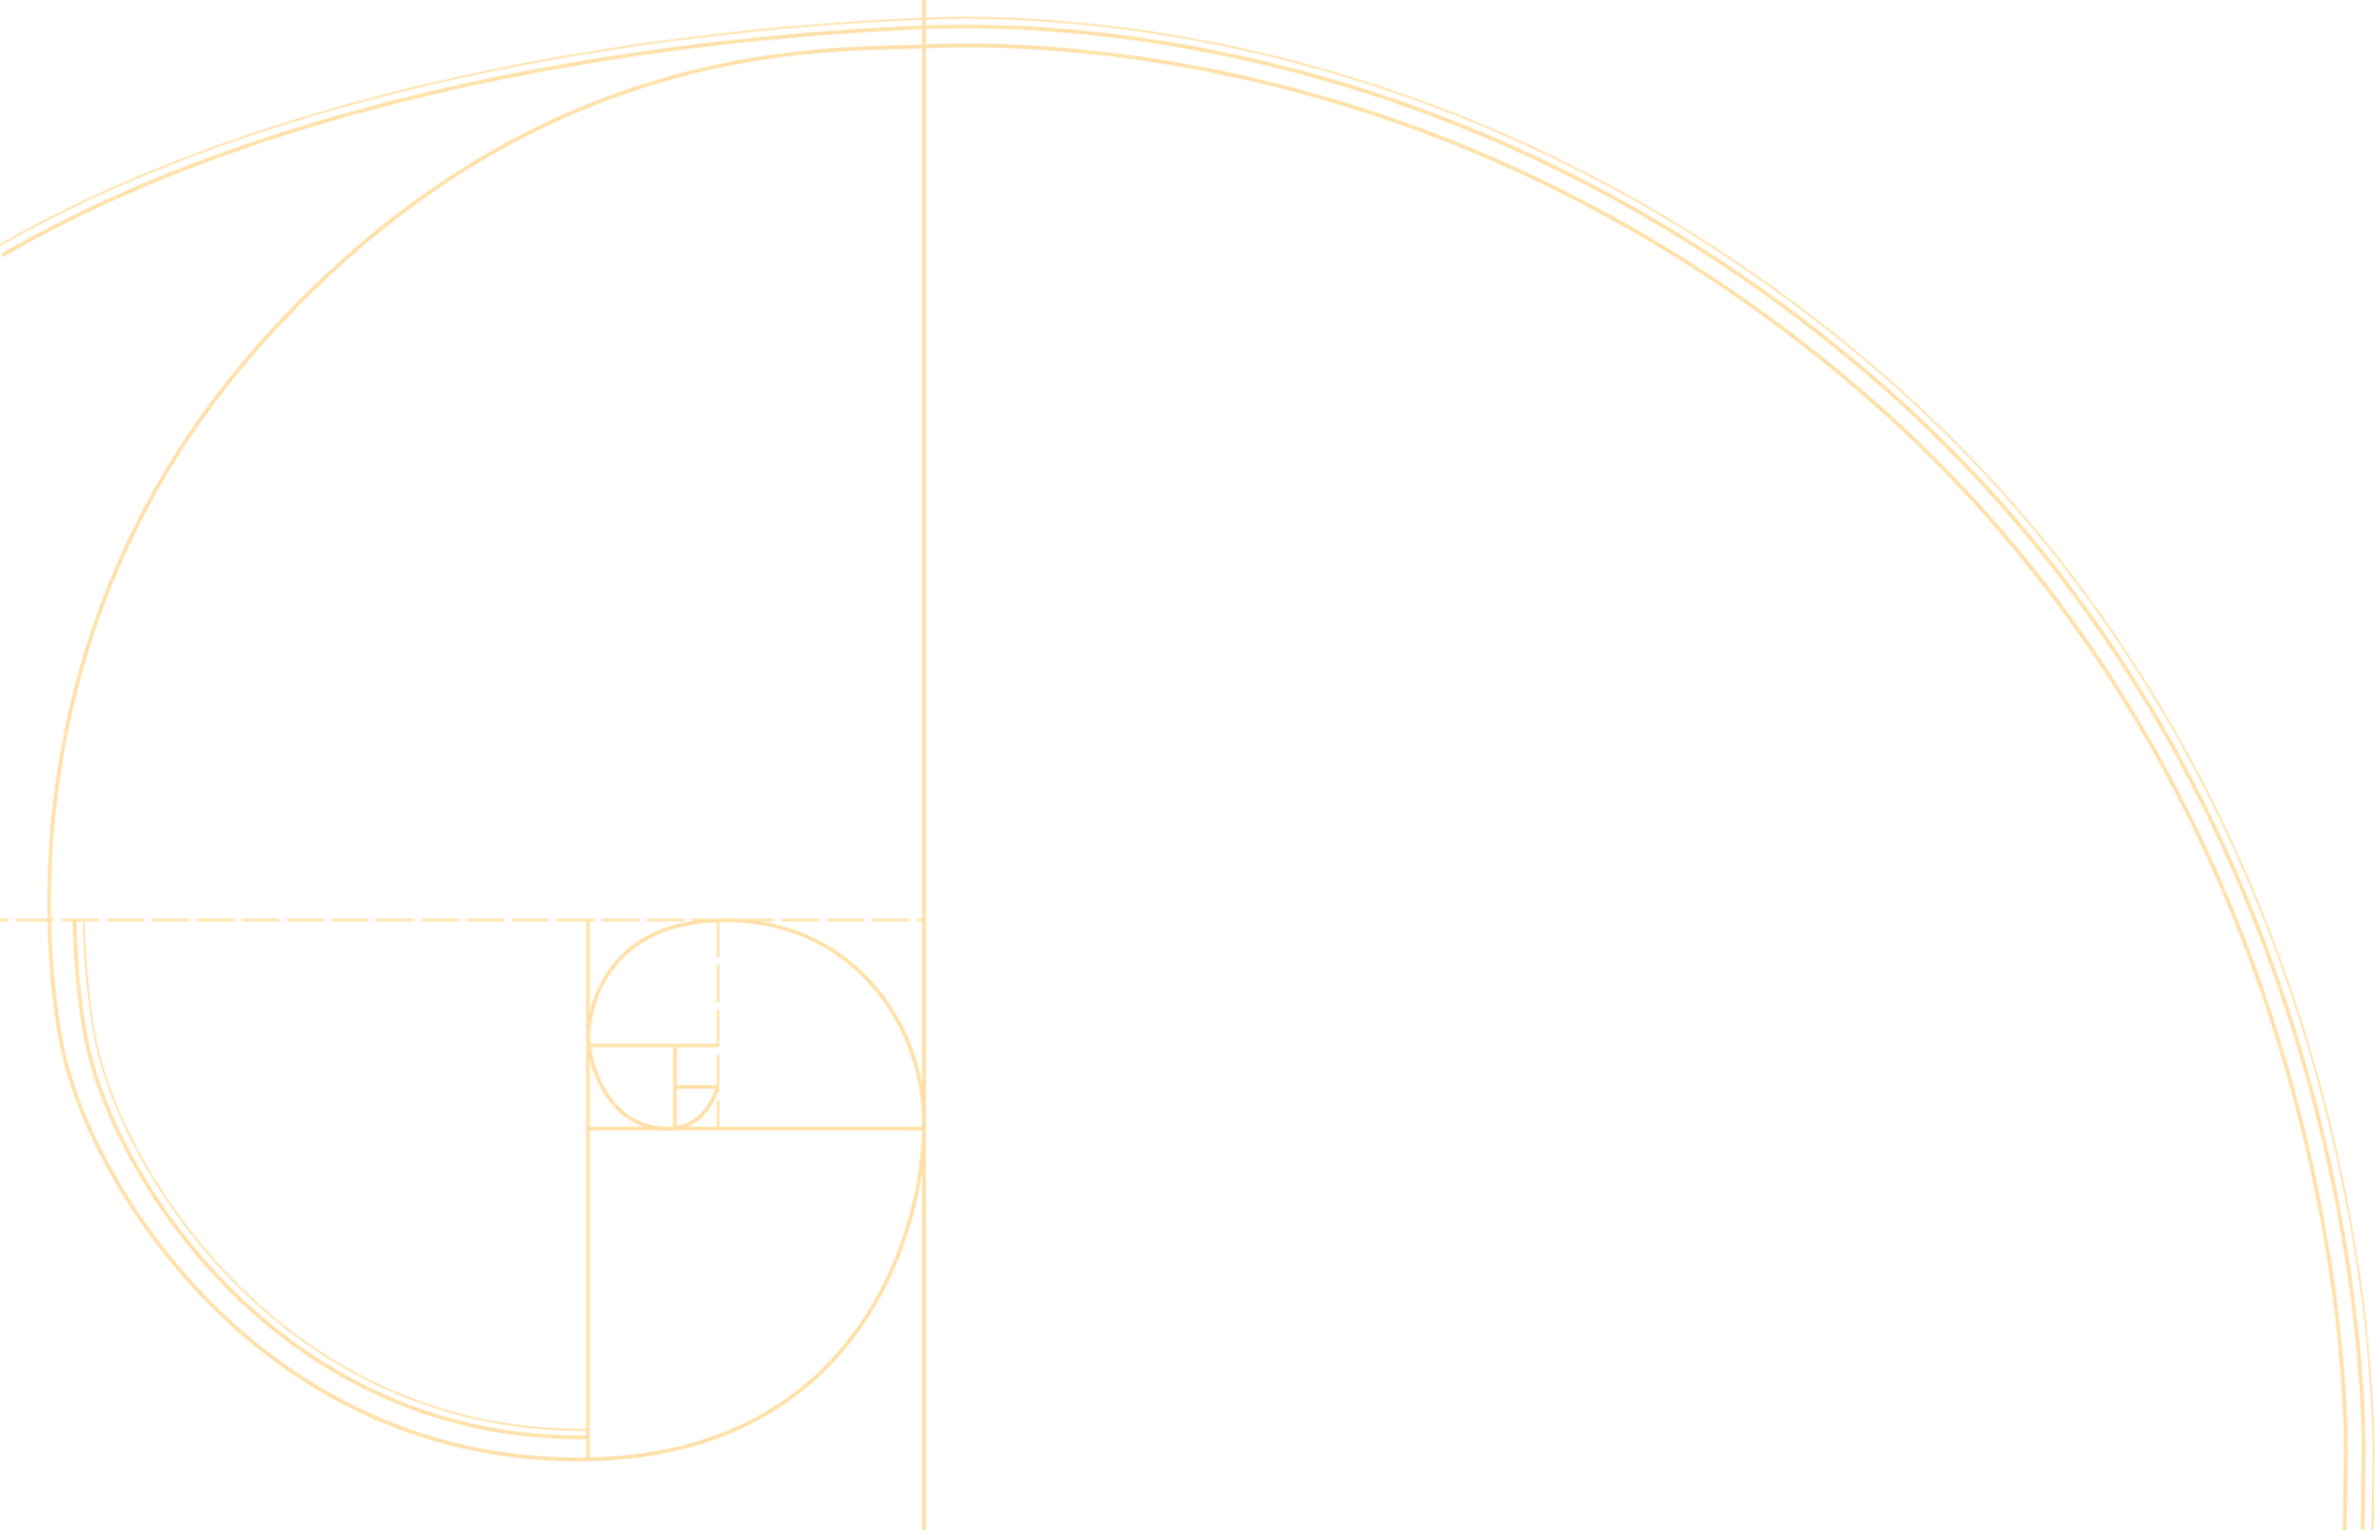
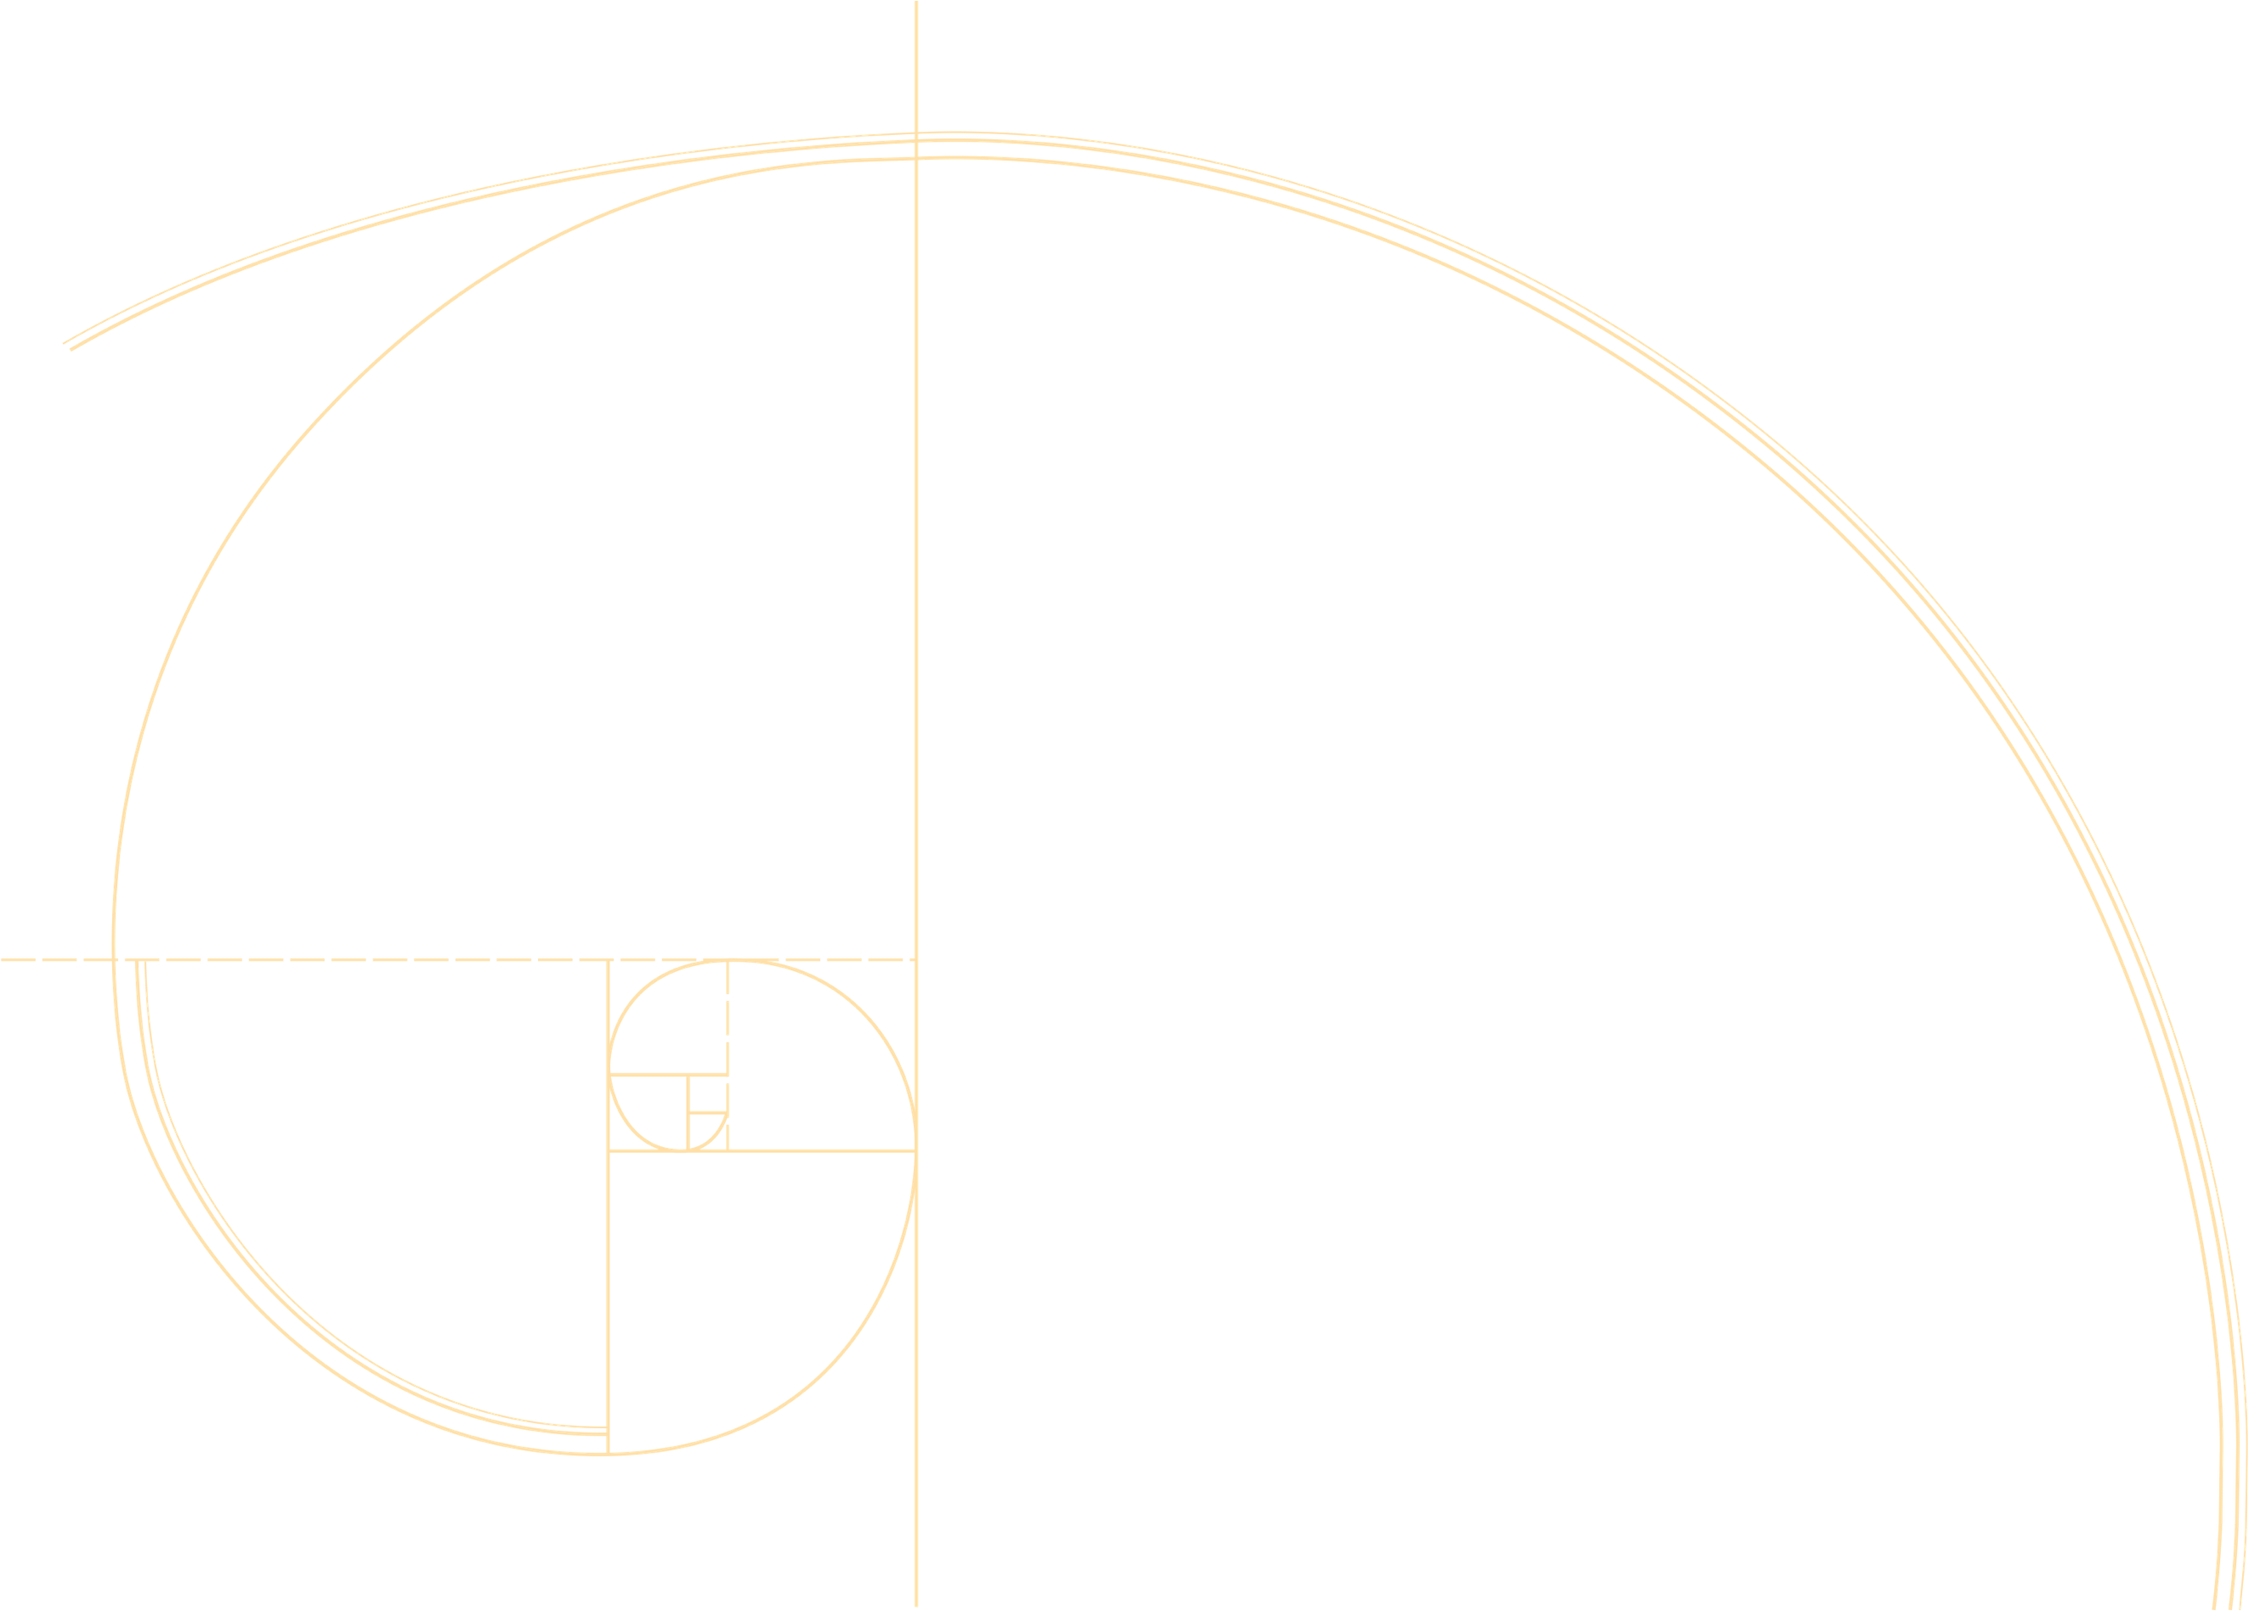
wip

diff --git a/index.html b/index.html
@@ -9,7 +9,7 @@
   </head>
   <body>
 
-    <div class="wrapper">
+    <div class="wrapper" id="wrapper_2">
       <img src="img/mask.png" alt="Маска">
       <img src="img/ratio.png" alt="Сечение">
 
@@ -57,6 +57,19 @@
         <img src="img/slider.png" alt="Подзунок">
         <img src="img/waves.png" alt="Волны">
         <img src="img/clouds.png" alt="Разводы">
+
+        <svg viewBox="0 0 3231.19 2969.05">
+          <path id="curve" class="st0" fill="transparent" d="M416.99,375.41c1265-5,2300,1001,2284,2383"/>
+          <text width="500">
+            <textPath xlink:href="#curve" class="path_timeline" startOffset="7%">взрыв</textPath>
+            <textPath xlink:href="#curve" class="path_timeline" startOffset="19%">секунда</textPath>
+            <textPath xlink:href="#curve" class="path_timeline" startOffset="32.4%">380 000</textPath>
+            <textPath xlink:href="#curve" class="path_timeline" startOffset="46.1%">1 млрд</textPath>
+            <textPath xlink:href="#curve" class="path_timeline" startOffset="58.6%">5 млрд</textPath>
+            <textPath xlink:href="#curve" class="path_timeline" startOffset="71.4%">13,7 млрд</textPath>
+            <textPath xlink:href="#curve" class="path_timeline" startOffset="85.7%">будущее</textPath>
+          </text>
+        </svg>
 
         <div class="timeline">
           <h3>взрыв</h3>

diff --git a/css/master.css b/css/master.css
@@ -24,9 +24,10 @@ body {
 
 .wrapper {
   position: relative;
-  overflow-x: hidden;
-  overflow-y: hidden;
+  /* overflow-x: hidden;
+  overflow-y: hidden; */
   height: 100vh;
+  /* background-image: url(../img/back.png); */
   background size: cover;
   background-repeat: no-repeat;
 }
@@ -52,9 +53,9 @@ a {
 
 .wrapper img:nth-child(2) {
   position: absolute;
-  top: -0.3vw;
-  left: 1.4vw;
-  width: 88.8vw;
+  top: -5.1vw;
+  left: -1.5vw;
+  width: 91.8vw;
 }
 
 .type img:first-child {
@@ -118,8 +119,20 @@ a {
 
 .map img:nth-child(3) {
   position: absolute;
-  top: 4vw;
+  top: 15vw;
   left: 36vw;
-  width: 48vw;
+  width: 39vw;
   z-index: -1;
+}
+
+.path_timeline {
+  font-size: 4.1vw;
+  fill: var(--main-color);
+}
+
+svg {
+  width: 72vw;
+  position: absolute;
+  top: -4.7vw;
+  left: 26.6vw;
 }

diff --git a/js/main.js b/js/main.js
@@ -1,0 +1,19 @@
+let controller = new ScrollMagic.Controller()
+
+let mainScene = new ScrollMagic.Scene({
+  duration: 7000
+});
+mainScene.setPin('#wrapper_2');
+mainScene.addTo(controller);
+
+
+
+
+// let mainScene = document.querySelector('#wrapper')
+// let box1Animation = anime({
+//   targets: box1,
+//   translateX: 500,
+//   rotate: [0, 360],
+//   duration: 1500,
+//   autoplay: false
+// })
